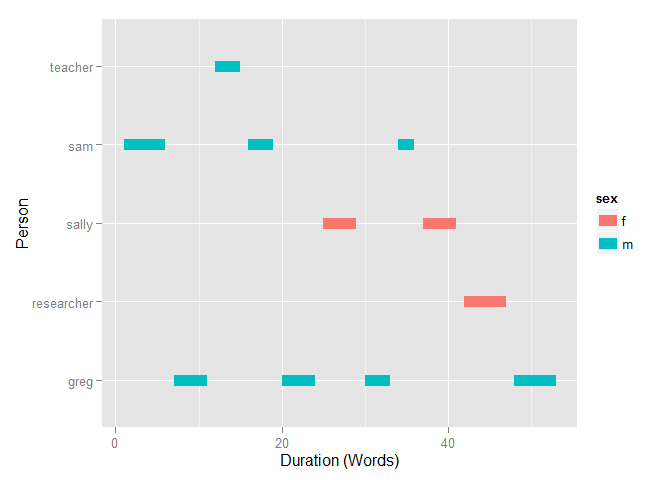
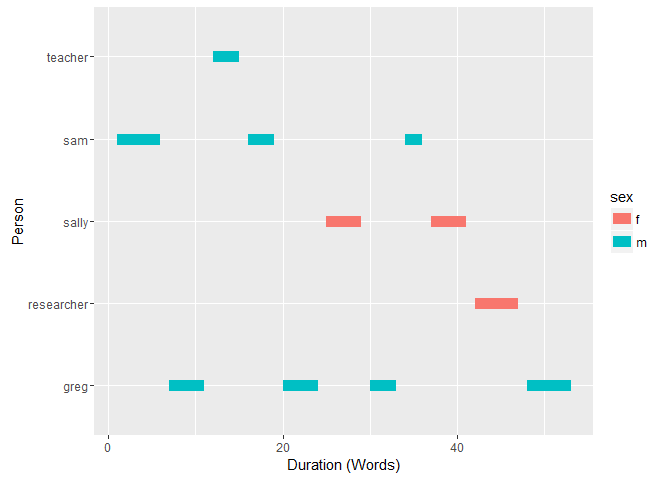
updated readme

diff --git a/README.md b/README.md
@@ -23,34 +23,34 @@ package limited to text reshaping.
 Table of Contents
 ============
 
--   [Functions](#functions)
--   [Installation](#installation)
--   [Contact](#contact)
--   [Examples](#examples)
-    -   [Binding](#binding)
-        -   [A Vector](#a-vector)
-        -   [A Dataframe](#a-dataframe)
-    -   [Combining](#combining)
-        -   [A Vector](#a-vector)
-        -   [A Dataframe](#a-dataframe)
-    -   [Tabulating](#tabulating)
-        -   [A Vector](#a-vector)
-        -   [A Dataframe](#a-dataframe)
-    -   [Spanning](#spanning)
-        -   [A Vector](#a-vector)
-        -   [A Dataframe](#a-dataframe)
-        -   [Gantt Plot](#gantt-plot)
-    -   [Splitting](#splitting)
-        -   [Indices](#indices)
-        -   [Matches](#matches)
-        -   [Portions](#portions)
-        -   [Runs](#runs)
-        -   [Sentences](#sentences)
-        -   [Speakers](#speakers)
-        -   [Tokens](#tokens)
-        -   [Transcript](#transcript)
-        -   [Words](#words)
-    -   [Putting It Together](#putting-it-together)
+-   [[Functions](#functions)](#[functions](#functions))
+-   [[Installation](#installation)](#[installation](#installation))
+-   [[Contact](#contact)](#[contact](#contact))
+-   [[Examples](#examples)](#[examples](#examples))
+    -   [[Binding](#binding)](#[binding](#binding))
+        -   [[A Vector](#a-vector)](#[a-vector](#a-vector))
+        -   [[A Dataframe](#a-dataframe)](#[a-dataframe](#a-dataframe))
+    -   [[Combining](#combining)](#[combining](#combining))
+        -   [[A Vector](#a-vector-1)](#[a-vector](#a-vector-1))
+        -   [[A Dataframe](#a-dataframe-1)](#[a-dataframe](#a-dataframe-1))
+    -   [[Tabulating](#tabulating)](#[tabulating](#tabulating))
+        -   [[A Vector](#a-vector-2)](#[a-vector](#a-vector-2))
+        -   [[A Dataframe](#a-dataframe-2)](#[a-dataframe](#a-dataframe-2))
+    -   [[Spanning](#spanning)](#[spanning](#spanning))
+        -   [[A Vector](#a-vector-3)](#[a-vector](#a-vector-3))
+        -   [[A Dataframe](#a-dataframe-3)](#[a-dataframe](#a-dataframe-3))
+        -   [[Gantt Plot](#gantt-plot)](#[gantt-plot](#gantt-plot))
+    -   [[Splitting](#splitting)](#[splitting](#splitting))
+        -   [[Indices](#indices)](#[indices](#indices))
+        -   [[Matches](#matches)](#[matches](#matches))
+        -   [[Portions](#portions)](#[portions](#portions))
+        -   [[Runs](#runs)](#[runs](#runs))
+        -   [[Sentences](#sentences)](#[sentences](#sentences))
+        -   [[Speakers](#speakers)](#[speakers](#speakers))
+        -   [[Tokens](#tokens)](#[tokens](#tokens))
+        -   [[Transcript](#transcript)](#[transcript](#transcript))
+        -   [[Words](#words)](#[words](#words))
+    -   [[Putting It Together](#putting-it-together)](#[putting-it-together](#putting-it-together))
 
 Functions
 ============
@@ -61,7 +61,12 @@ The `combine`, `bind_list`, `duration`, & `mtabulate` functions are
 notable exceptions. The table below describes the functions and their
 use:
 
-<table>
+<table style="width:160%;">
+<colgroup>
+<col width="26%" />
+<col width="45%" />
+<col width="87%" />
+</colgroup>
 <thead>
 <tr class="header">
 <th align="left">Function</th>
@@ -79,6 +84,16 @@ use:
 <td align="left"><code>bind_list</code></td>
 <td align="left"><code>list</code> of <code>vector</code>s or <code>data.frame</code>s</td>
 <td align="left">Row bind a list and repeat list names as id column</td>
+</tr>
+<tr class="odd">
+<td align="left"><code>bind_vector</code></td>
+<td align="left"><code>vector</code></td>
+<td align="left">Column bind a named atomic <code>vector</code>'s names and values</td>
+</tr>
+<tr class="even">
+<td align="left"><code>bind_table</code></td>
+<td align="left"><code>table</code></td>
+<td align="left">Column bind a <code>table</code>'s names and values</td>
 </tr>
 <tr class="odd">
 <td align="left"><code>duration</code></td>
@@ -333,29 +348,29 @@ counts.
     (dat <- data.frame(matrix(sample(c("A", "B"), 30, TRUE), ncol=3)))
 
     ##    X1 X2 X3
-    ## 1   B  B  A
-    ## 2   A  A  A
+    ## 1   A  A  A
+    ## 2   A  B  A
     ## 3   A  B  B
-    ## 4   B  A  B
-    ## 5   A  B  A
-    ## 6   A  B  B
-    ## 7   A  A  B
-    ## 8   A  B  B
-    ## 9   A  A  B
-    ## 10  B  A  A
+    ## 4   A  A  B
+    ## 5   A  A  B
+    ## 6   A  A  B
+    ## 7   B  A  B
+    ## 8   A  B  A
+    ## 9   B  B  A
+    ## 10  B  B  A
 
     mtabulate(dat)
 
     ##    A B
     ## X1 7 3
     ## X2 5 5
-    ## X3 4 6
+    ## X3 5 5
 
     t(mtabulate(dat))
 
     ##   X1 X2 X3
-    ## A  7  5  4
-    ## B  3  5  6
+    ## A  7  5  5
+    ## B  3  5  5
 
 Spanning
 --------
@@ -431,12 +446,20 @@ The `duration` function calculations start-end durations as n words.
 #### Gantt Plot
 
     library(ggplot2)
+
+    ## 
+    ## Attaching package: 'ggplot2'
+
+    ## The following object is masked from 'package:qdapRegex':
+    ## 
+    ##     %+%
+
     ggplot(duration(DATA), aes(x = start, xend = end, y = person, yend = person, color = sex)) +
         geom_segment(size=4) +
         xlab("Duration (Words)") +
         ylab("Person")
 
-![](inst/figure/unnamed-chunk-11-1.png)
+![](inst/figure/unnamed-chunk-11-1.png)<!-- -->
 
 Splitting
 ---------
@@ -1293,11 +1316,11 @@ scraping with **textshape** replacements.
     ##    4: wisconsin     CAVUTO
     ##    5: wisconsin  BARTIROMO
     ##   ---                     
-    ## 7401:      ohio      BAIER
-    ## 7402:      ohio      KELLY
-    ## 7403:      ohio      KELLY
-    ## 7404:      ohio      KELLY
-    ## 7405:      ohio      KELLY
+    ## 7405:      ohio      BAIER
+    ## 7406:      ohio      KELLY
+    ## 7407:      ohio      KELLY
+    ## 7408:      ohio      KELLY
+    ## 7409:      ohio      KELLY
     ##                                                                                                                                                        dialogue
     ##    1:                                      Gerard Baker (The Wall Street Journal);Maria Bartiromo (Fox Business Network); andNeil Cavuto (Fox Business Network)
     ##    2:                                                                           It is 9:00 p.m. on the East Coast, 8:00 p.m. here inside the Milwaukee theater.
@@ -1305,11 +1328,11 @@ scraping with **textshape** replacements.
     ##    4:                           I'm Neil Cavuto, alongside my co-moderators, Maria Bartiromo, and the editor-in-chief of the Wall Street Journal, Gerard Baker.
     ##    5:                                          Tonight we're partnering with the Wall Street Journal to ask questions on the economy that voters want answered.
     ##   ---                                                                                                                                                          
-    ## 7401:                                                                                                                                                That's it.
-    ## 7402:                                                                                                                                         Are you relieved?
-    ## 7403:                                                                                                  You were nervous before, they--they don't look relieved.
-    ## 7404: They look "get me outta here."  Thank you all very much, and that will do it for the first Republican primary debate night of the 2016 presidential race.
-    ## 7405:                                                                          Our thanks to the candidates, who will now be joined by their families on stage.
+    ## 7405:                                                                                                                                                That's it.
+    ## 7406:                                                                                                                                         Are you relieved?
+    ## 7407:                                                                                                  You were nervous before, they--they don't look relieved.
+    ## 7408: They look "get me outta here."  Thank you all very much, and that will do it for the first Republican primary debate night of the 2016 presidential race.
+    ## 7409:                                                                          Our thanks to the candidates, who will now be joined by their families on stage.
     ##       element_id sentence_id
     ##    1:          1           1
     ##    2:          2           1
@@ -1317,8 +1340,8 @@ scraping with **textshape** replacements.
     ##    4:          2           3
     ##    5:          3           1
     ##   ---                       
-    ## 7401:        301           1
-    ## 7402:        302           1
-    ## 7403:        302           2
-    ## 7404:        302           3
-    ## 7405:        302           4
+    ## 7405:        301           1
+    ## 7406:        302           1
+    ## 7407:        302           2
+    ## 7408:        302           3
+    ## 7409:        302           4
